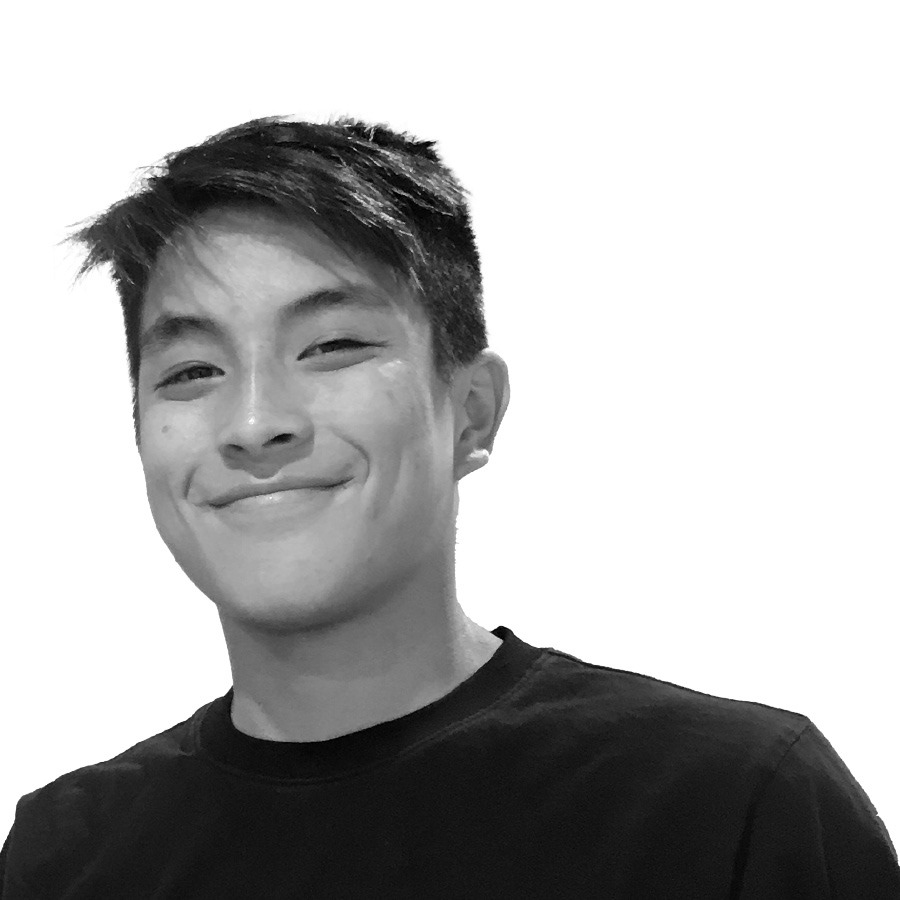
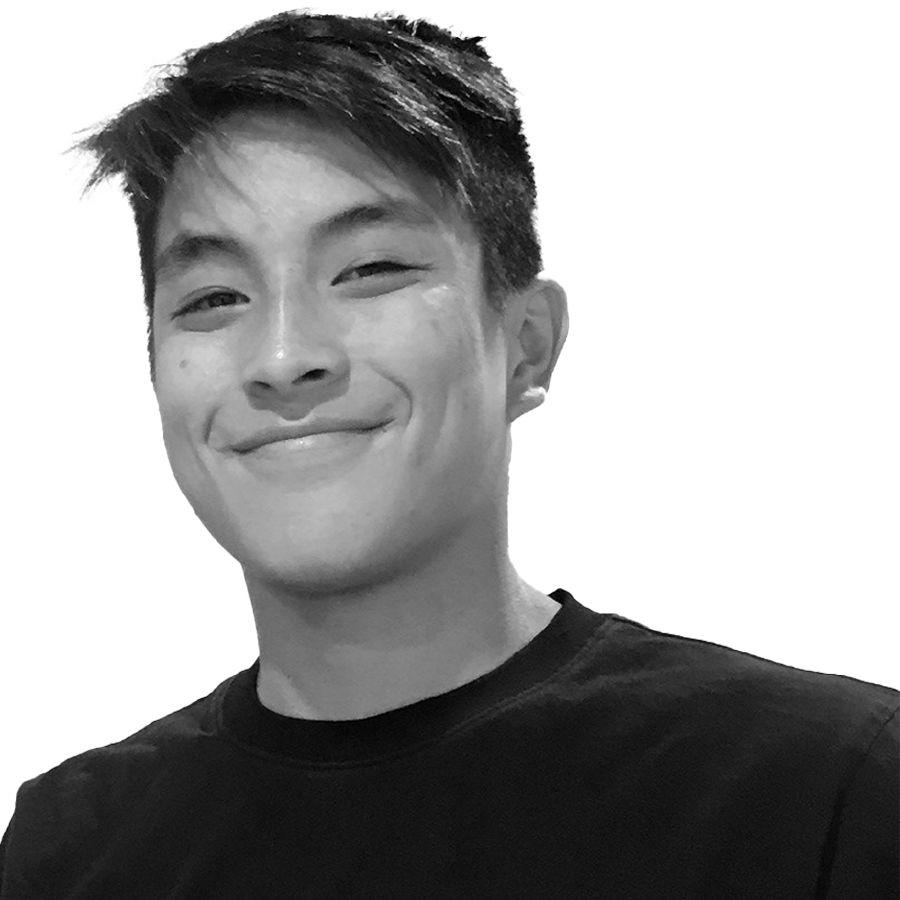
Body Completed

Changed region(s): [[0.0, 0.0, 1.0, 0.9644]]

diff --git a/index.html b/index.html
@@ -1,7 +1,7 @@
 <!DOCTYPE html>
 <html>
     <head>
-        <title>Nick Ly</title>
+        <title>Nicholas Ly</title>
      
         <link rel="stylesheet" href="UX_UI_HW_17/CSS/style.css">
 
@@ -13,39 +13,49 @@
 
     </head>
     <body>  
-
             <!--Header-->
 
             <header>
-                <img src=
-                "ux_ui_hw_17/images/portfolio_logo.svg" alt="Nick Ly logo">
                 <div>
+                    <img 
+                        src=
+                        "ux_ui_hw_17/images/portfolio_logo.svg" 
+                        alt="Nick Ly logo"
+                        class="logo">
+                </div>
+                <div></div>
                     <nav>
                         <ul class="nav_links">
                             <li><a href="#">CONTACT</a></li>
                             <li><a href="#">ABOUT</a></li>
-                            <li><a href="#">SKILLS</a></li>
+                            <li><a CLASS="cta" href="#"><button>WORK</button></a></li>
                         </ul>
                     </nav>
-                    <A CLASS="cta" href="#"><button>WORK</button></A>
                 </div>
-        </header>
+            </header>
 
         <!--Hero Section-->
-
-        <section class="hero-image">
-            <div>
-                <img src=
-                    "ux_ui_hw_17/images/Profile_Headshot.png" alt="Nick's Profile">
-                <p class="intro-blurb">
-                    Hello, I'm Nick! A UXUI Artist and Researcher.
-                </p>
-                <button>
-                    Resume
-                </button>
+     
+            <div class="hero-container">
+                <div class="text">
+                    <h1>Hello, I'm Nick. A UX/UI artist.</h1>
+                    <p class="paragraph">As a graphic-oriented UX/UI designer, 
+                        I aim to tie aesthetics to user experience, 
+                        with methods driven by curiosity, admiration, 
+                        and an affinity to synergism.
+                    </p>
+                    <button class="resume">
+                        RESUME
+                    </button>
+                    </div>
+                        <img 
+                            src="UX_UI_HW_17/images/Profile_Headshot.png" 
+                            alt="Nick's Headshot" 
+                            class="hero-image">
             </div>
-        </section>
-
+            <button>
+                Resume
+            </button>
         <!--Footer-->
 
         <footer>

diff --git a/UX_UI_HW_17/CSS/style.css b/UX_UI_HW_17/CSS/style.css
@@ -1,12 +1,17 @@
-@import url('https://fonts.googleapis.com/css2?family=Inter:wght@300;400;500;600&display=swap');
+@import 
+url('https://fonts.googleapis.com/css2?family=Inter:wght@300;400;500;600&display=swap');
 
 * {
     box-sizing: border-box;
     margin: 0;
     padding: 0;
     background-color:rgb(255, 255, 255);
+    font-family: "Inter", Arial, Helvetica, sans-serif;
 }
 
+.logo {
+    padding: 10px;
+}
 li, a, button {
     font-family: "inter", Arial, Helvetica, sans-serif;
     font-weight: 400;
@@ -20,8 +25,8 @@ li, a, button {
 header {
     display: flex;
     justify-content: space-between;
-    align-items:flex-start;
-    padding: 30px 22px 10px 22px;
+    align-items:center;
+    padding: 30px 10px 10px;
 }
 
 .nav_links {
@@ -29,8 +34,8 @@ header {
 }
 
 .nav_links li {
-    display:flex; 
-    padding: 8px 20px;
+    display:inline-block; 
+    padding: 8px 10px 50px;
 }
 
 .nav_links li a {
@@ -41,6 +46,50 @@ header {
     color: #46c363
 }
 
+.hero-container {
+    display: flex;
+    justify-content:center;
+    width: 90%;
+    margin: 10rem auto 0 auto;
+    align-items: center;
+    padding: 30px 10px 10px;
+    margin: 20px;
+    max-width: 1673px;
+    margin-left: auto;
+    margin-right: auto;
+}
+
+.hero-container img {
+    height: 500px;
+    margin: 0px ;   
+}
+
+.hero-container h1 {
+    margin: 0;
+	font-family:Inter;
+    font-weight: 400;
+	font-size:75px;
+    min-width: 533px;
+    max-width: 533px;
+    
+}
+
+.paragraph { 
+    max-height: 227.5px;
+    max-width:655px;
+    line-clamp: 5;
+}
+
+.hero-container p {
+    font-size: 3rem;
+    line-height: 1.5;
+	font-family:Inter;
+	font-size:25px;
+    padding: 20px 0;
+    min-width: 512px; 
+}
+
+
 button {
     padding: 9px 25px ;
     margin: 8px;
@@ -50,7 +99,6 @@ button {
     cursor: pointer;
     transition: all .3s ease 0s;
     justify-items: 30px;
-
 }
 
 button:hover {
@@ -58,3 +106,7 @@ button:hover {
     color: white;
 }
 
+.resume {
+    margin: 20px 500px 0px 0px;
+    position: absolute;
+}
